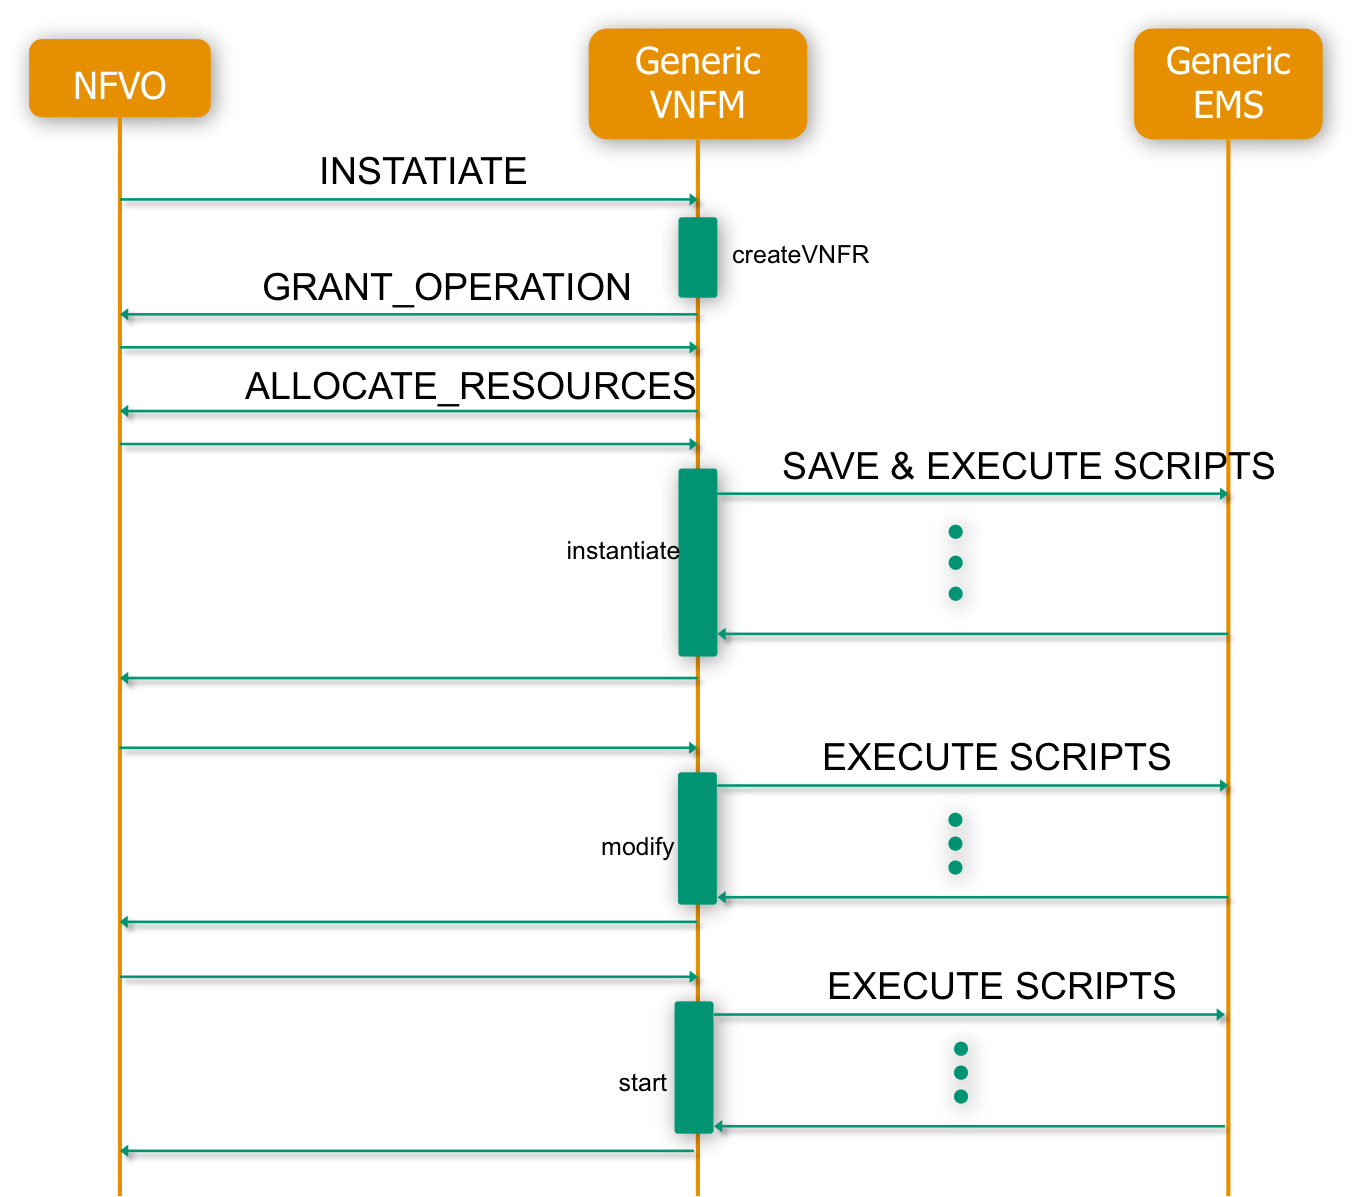
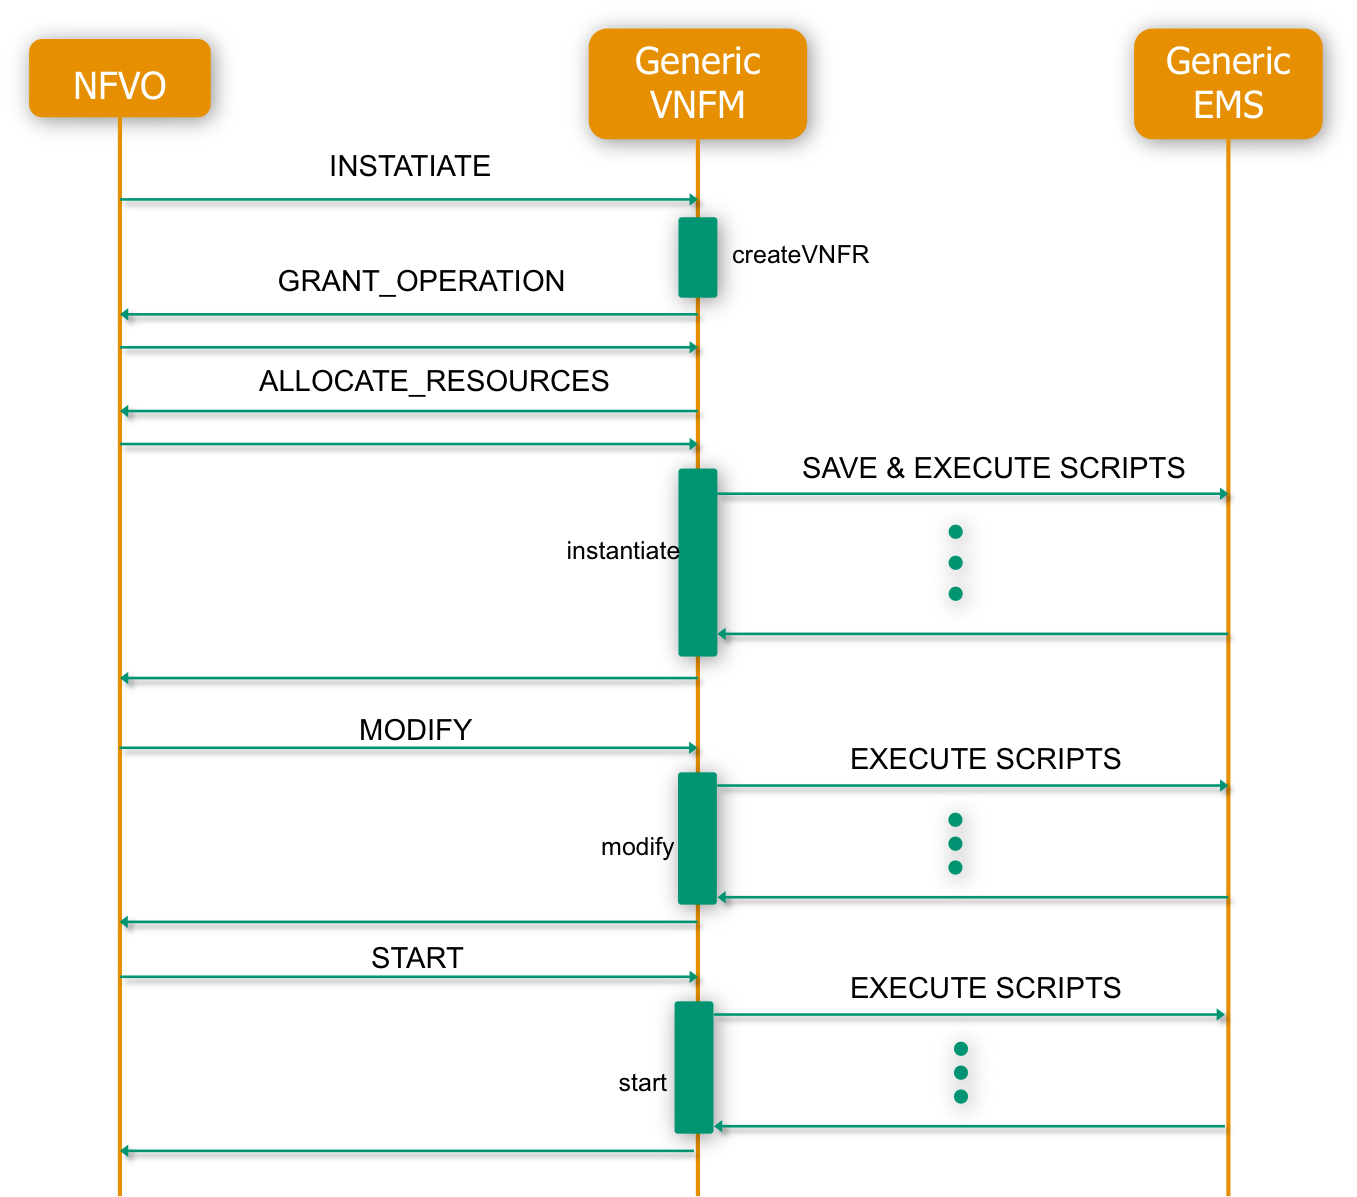
Fixed some details, added Use case example, improved sequence diagram

diff --git a/docs/use-case-example.md b/docs/use-case-example.md
@@ -1,0 +1,138 @@
+# Use case example
+
+In this page there is a full real use case example explaining how the deployment process works, step by step. We assume that the NFVO and the Generic VNFM are running ready to receive invocations.
+
+What is going to be deployed is shown in the following picture, an [Iper][iperf] client and an Iperf server.
+
+![iperf-deployment](images/iperf-client-server.png)
+
+As shown in the picture, the iperf server is the source of the dependency and the client is the target. Indeed is the client that needs the ip from the server. The semantic of the vnf dependency is: the source provides some parameters to the target.
+
+Before starting we need to send the VimInstance to the NFVO and the Network Service Descriptor. For doing this please have a look into the [Vim instance documentation][vim-doc], [VNF Package documentation][vnf-package] and [Network Service Descriptor documentation][nsd-doc]. In fact, for creating a Network Service Record, we need to have a Network Service Descriptor onboarded into the catalogue with two Virtual Network Functions (iperf client and server) created from a VNF Package. A Virtual Network Descriptor for Iper client is shown:
+
+```json
+{
+    "vendor":"fokus",
+    "version":"0.1",
+    "name":"iperf-client",
+    "type":"client",
+    "endpoint":"generic",
+    "vdu":[
+        {
+            "vm_image":[
+                "ubuntu-14.04-server-cloudimg-amd64-disk1"
+            ],
+            "computation_requirement":"",
+            "virtual_memory_resource_element":"1024",
+            "virtual_network_bandwidth_resource":"1000000",
+            "lifecycle_event":[
+
+            ],
+            "vimInstanceName":"vim-instance",
+            "vdu_constraint":"",
+            "high_availability":"ACTIVE_PASSIVE",
+            "scale_in_out":2,
+            "vnfc":[
+                {
+                    "connection_point":[
+                        {
+                            "virtual_link_reference":"private"
+                        }
+                    ]
+                }
+            ],
+            "monitoring_parameter":[
+                "cpu_utilization"
+            ]
+        }
+    ],
+    "virtual_link":[
+        {
+            "name":"private"
+        }
+    ],
+    "connection_point":[
+
+    ],
+    "lifecycle_event":[
+        {
+            "event":"INSTANTIATE",
+            "lifecycle_events":[
+                "install.sh"
+            ]
+        },
+        {
+            "event":"CONFIGURE",
+            "lifecycle_events":[
+                "server_configure.sh"
+            ]
+        }
+    ],
+    "vdu_dependency":[
+
+    ],
+    "monitoring_parameter":[
+        "cpu_utilization"
+    ],
+    "deployment_flavour":[
+        {
+            "df_constraint":[
+                "constraint1",
+                "constraint2"
+            ],
+            "costituent_vdu":[
+
+            ],
+            "flavour_key":"m1.small"
+        }
+    ],
+    "manifest_file":""
+}
+```
+
+This is a perfect example for a dependency. The VNFManager Generic, when will handle the client VNF described below, will run the `install.sh` script during the instantiate method. The install.sh script is:
+
+```bash
+#!/bin/bash
+
+sudo apt-get update && sudo apt-get install -y iperf screen
+```
+
+As said before in the documentation [VNFManager Generic][vnfm-generic], _the scripts in the CONFIGURE lifecycle event need to start with the type of the source VNF followed by \_ and the name of the script_, so the server_configure.sh is:
+
+```bash
+#!/bin/bash
+
+screen -d -m -S client iperf -c $server_private1 -t 300
+```
+
+These scripts showed above, are contained into the VNF Package or into a git repository accessible from the VM. Once all these steps are done we are ready to create a Network Service Record from the id of the Network Service Descriptor. 
+
+Let's again have a look into the sequence diagram of a create Network Service Record operation.
+
+![CreateNSR Sequence Diagram](/images/sequence-diagram-v2.png)
+
+<!---
+References
+-->
+
+[vnfm-generic]: vnfm-generic
+[nsd-doc]:ns-descriptor
+[vnf-package]:vnfpackage
+[vim-doc]:vim-instance-documentation
+[iperf]:https://iperf.fr
+
+<!---
+Script for open external links in a new tab
+-->
+<script type="text/javascript" charset="utf-8">
+      // Creating custom :external selector
+      $.expr[':'].external = function(obj){
+          return !obj.href.match(/^mailto\:/)
+                  && (obj.hostname != location.hostname);
+      };
+      $(function(){
+        $('a:external').addClass('external');
+        $(".external").attr('target','_blank');
+      })
+</script>

diff --git a/docs/vnfm-how-to-write.md b/docs/vnfm-how-to-write.md
@@ -279,7 +279,7 @@ logging.level.org.apache.activemq = WARN
 logging.level.org.openbaton.nfvo = DEBUG
 logging.level.org.openbaton.vnfm = DEBUG
 
-# activeMQ
+#### activeMQ
 spring.activemq.broker-url=tcp://localhost:61616
 spring.activemq.user=admin
 spring.activemq.password=admin
@@ -302,7 +302,7 @@ allocate = true
 concurrency = 15
 transacted = false
 
-#Additionally
+#### Additionally
 vim-plugin-dir = ./plugins/vim-drivers
 ```
 
@@ -316,7 +316,7 @@ Where the parameters mean:
 | concurrency	 				| The number of concurrent Receiver (only for vnfm-sdk-jms)|
 | transacted 					| Whenever the JMS receiver method shoud be transacted, this allows the message to be resent in case of exception VNFManager side (only for vnfm-sdk-jms)     	|
 
-### Choose a vnfm-sdk
+## Choose a vnfm-sdk
 
 Before you can start with the implementation you need to select the type of communication you want to use for the communication between the Orchestrator (NFVO) and the VNFManager.
 Either you can use the vnfm-sdk-jms for using the [Java Message Service (JMS)][JMS-link] or the vnfm-sdk-rest for using the [ReST][ReST-link] interface.
@@ -383,7 +383,7 @@ $ ./gradlew build
 This will fetch all the dependencies defined in the build.gradle and gives you access to all the Classes you need.
 You can also do this by using the IDE by running the corresponding gradle task.
 
-### Implementation of the VNFManager
+## Implementation of the VNFManager
 
 This section is going to describe the implementation of a basic VNFManager by using the vnfm-sdk-jms.
 In the end, the VNFManager will be able to allocate and terminate resources by using its own openstack-plugin.

diff --git a/docs/vnfm-generic.md b/docs/vnfm-generic.md
@@ -16,7 +16,7 @@ The communication between the Generic VNFManager and EMS:
 As you can see, the Generic VNFM sends commands to the EMS, which is running in the VM. Then the EMS executes the commands (scripts) locally in the VNFC.
 The following sequence diagram explains the communication messages.
 
-![Sequence Diagram NFVO - VNFM - EMS][or-vnfm-sequence]
+![Sequence Diagram NFVO - VNFM - EMS](/images/sequence-diagram-v2.png)
 
 The Generic VNFManager is supposed to be used for any type of VNF that follows some conventions regarding:
 
@@ -103,6 +103,8 @@ In the INSTANTIATE scripts, the parameters defined in these two fields are then 
 
 In the MODIFY scripts, the INSTANTIATE parameters are still available but plus there are environment variables that come from other VNF sources, where they are specified in the provides field. 
 These kind of parameters are defined in the _requires_ fields (of the VNF target) and the VNFDependency→parameters fields (of the NSD), and are then available as $*type_of_vnf_source*_*name_of_parameter* (in the VNF target).
+
+_**NOTE**_: _the scripts in the CONFIGURE lifecycle event need to start with the type of the source VNF followed by \_ and the name of the script (i.e. server_configure.sh)_
 
 ### VMs termination
 
